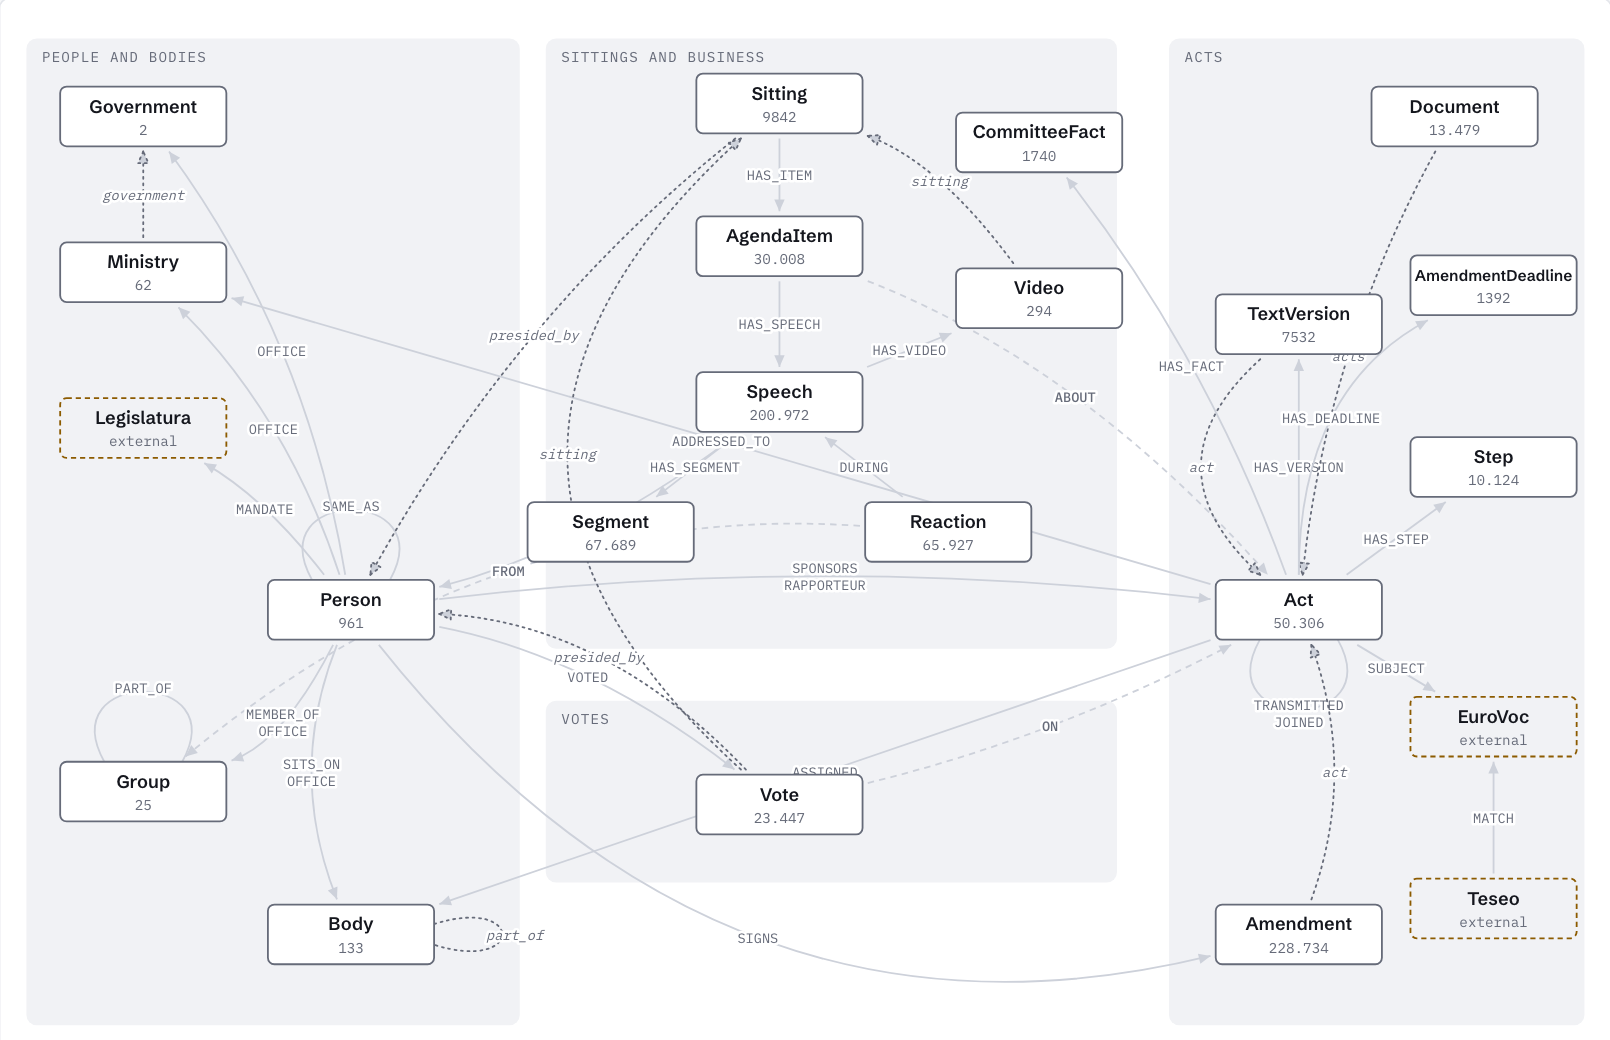
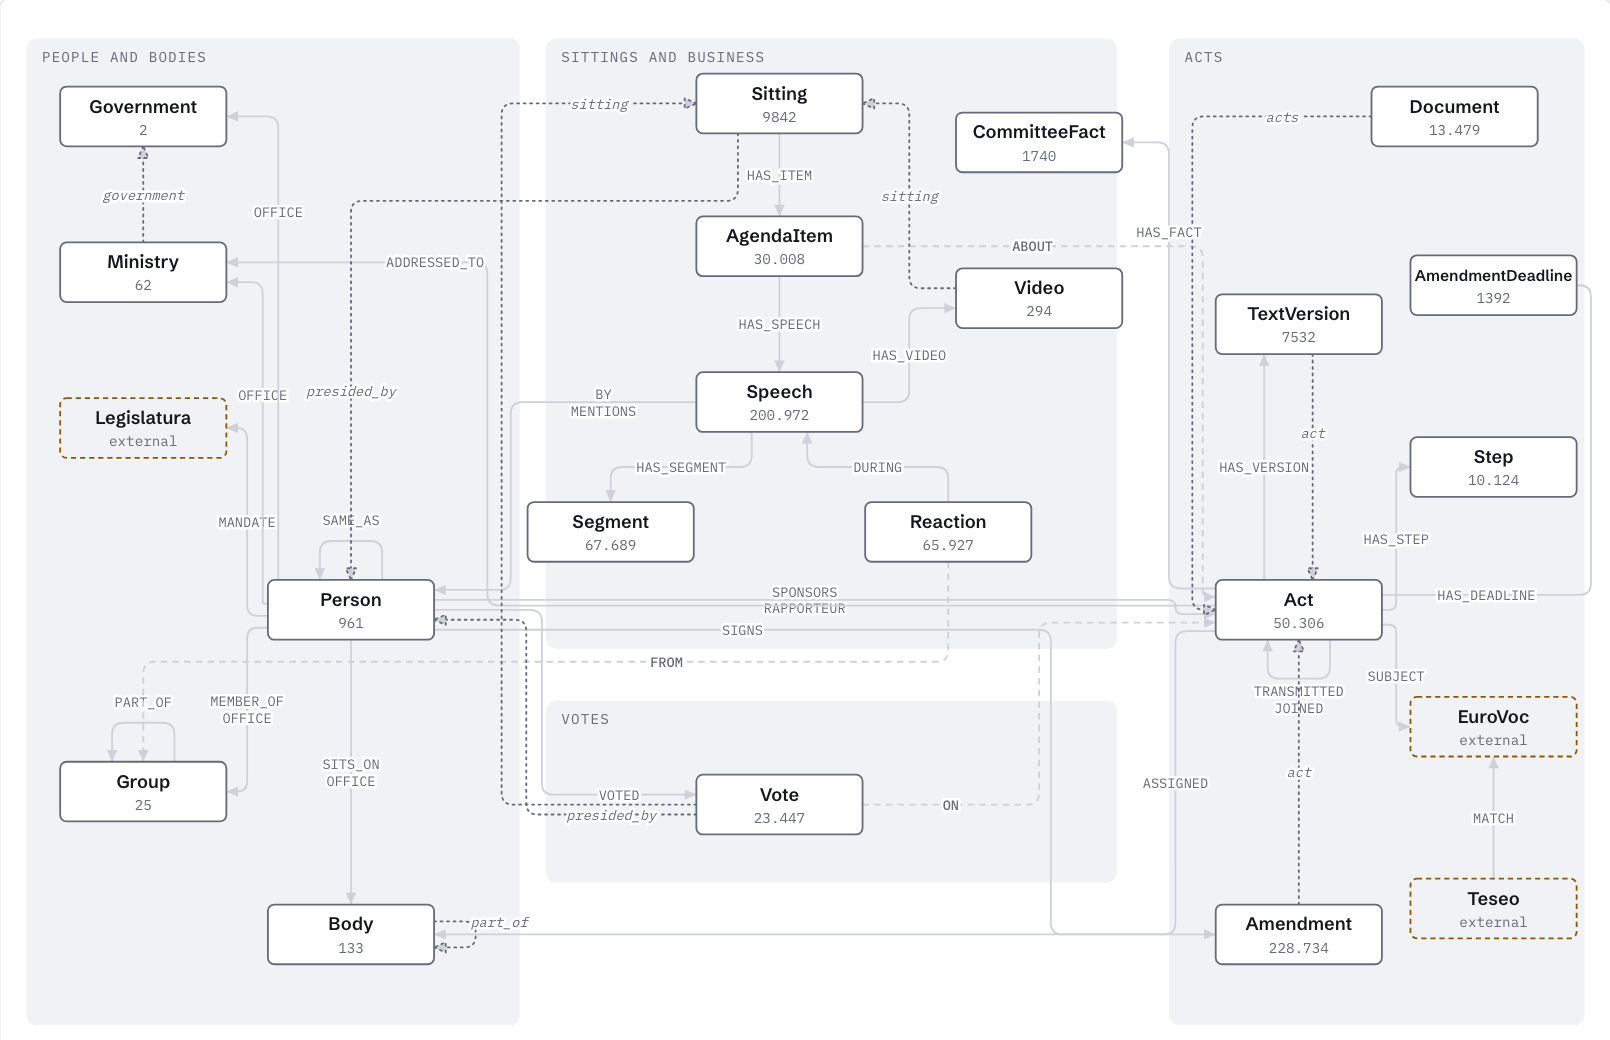
feat(grafo): linee ortogonali nella mappa del modello dei dati
Al posto delle curve con la curvatura scelta a mano: solo tratti
orizzontali e verticali con gli angoli arrotondati. Le linee di uno
stesso lato si distribuiscono lungo il bordo, le porte quasi allineate
si allineano (niente scalini), il tratto di mezzo si sceglie fra molte
posizioni evitando i riquadri e le linee già tracciate, con un percorso
a C quando due nodi stanno nella stessa colonna. Le etichette vanno dove
non coprono riquadri, titoli delle zone o altre etichette. PNG rifatti.

diff --git a/sito/js/grafo-v3.js b/sito/js/grafo-v3.js
@@ -71,10 +71,6 @@ const POS = {
 };
 const ZONE = [["Persone e organi", 20, 30, 380, 760], ["Sedute e lavori", 420, 30, 440, 470], ["Voti", 420, 540, 440, 140], ["Atti", 900, 30, 320, 760]];
 const W = 128, H = 46;
-// curvatura per coppia (positiva = verso destra rispetto alla direzione)
-const CURVA = { "Person>Amendment": 0.32, "Person>Act": -0.06, "Person>Vote": -0.12, "Vote>Act": 0.06, "Person>Group": -0.2, "Person>Body": 0.2,
-  "Vote>Sitting": -0.55, "Video>Sitting": 0.15, "Amendment>Act": 0.18, "TextVersion>Act": 0.55, "Document>Act": 0.1, "Sitting>Person": 0.1,
-  "Vote>Person": 0.2, "Speech>Person": -0.1, "Ministry>Government": 0, "Person>Ministry": 0.12, "Person>Government": 0.12, "Person>Legislatura": 0.1, "Speech>Person": -0.1, "TextVersion>Amendment": 0, "AgendaItem>Act": -0.12, "Reaction>Group": 0.2, "Act>AmendmentDeadline": -0.3, "Act>CommitteeFact": 0.08, "AmendmentDeadline>Sitting": -0.08 };
 
 const fmt = n => n.toLocaleString("it-IT");
 const svg = document.getElementById("g3-svg");
@@ -100,40 +96,154 @@ const ZONE_EN = { "Persone e organi": "People and bodies", "Sedute e lavori": "S
 if (window.LANG === "en") ZONE.forEach((z) => { z[0] = ZONE_EN[z[0]] || z[0]; });
 ZONE.forEach(([t, x, y, w, h]) => { el("rect", { x, y, width: w, height: h, rx: 8, class: "zona-fondo" }); el("text", { x: x + 12, y: y + 18, class: "zona" }).textContent = t; });
 
-// bordo del rettangolo verso un punto
-function bordo([cx, cy], [tx, ty]) {
-  const dx = tx - cx, dy = ty - cy, sx = (W / 2 + 4) / Math.abs(dx || 1e-9), sy = (H / 2 + 4) / Math.abs(dy || 1e-9), s = Math.min(sx, sy);
-  return [cx + dx * s, cy + dy * s];
+// linee ortogonali (10/11/2026): solo tratti orizzontali e verticali, con gli angoli arrotondati. Ogni coppia esce dal lato
+// rivolto verso l'arrivo; le linee di uno stesso lato si distribuiscono lungo il bordo. Per il tratto di mezzo si provano
+// molte posizioni e vince quella che non attraversa riquadri e non si sovrappone alle linee già tracciate; le etichette
+// vanno dove non toccano riquadri né altre etichette.
+const MARGINE = 8;
+const riquadri = Object.entries(POS).map(([l, [x, y]]) => ({ l, x0: x - W / 2 - MARGINE, y0: y - H / 2 - MARGINE, x1: x + W / 2 + MARGINE, y1: y + H / 2 + MARGINE }))
+  .concat(ZONE.map(([t, x, y]) => ({ l: "zona " + t, x0: x + 2, y0: y + 2, x1: x + 22 + t.length * 8, y1: y + 28 })));   // i titoli delle zone
+const tratti = [];                                     // {o: "h" | "v", c: coordinata fissa, a, b: intervallo, k: coppia}
+function attraversa(p, q, salta) {
+  const x0 = Math.min(p[0], q[0]), x1 = Math.max(p[0], q[0]), y0 = Math.min(p[1], q[1]), y1 = Math.max(p[1], q[1]);
+  return riquadri.filter(r => !salta.includes(r.l) && x0 < r.x1 && x1 > r.x0 && y0 < r.y1 && y1 > r.y0).length;
+}
+function tratto(p, q, k) {
+  const o = Math.abs(p[1] - q[1]) < .5 ? "h" : "v", i = o === "h" ? 0 : 1;
+  return { o, c: o === "h" ? p[1] : p[0], a: Math.min(p[i], q[i]), b: Math.max(p[i], q[i]), k };
+}
+function sovrapposti(t) {                              // lunghezza in comune con tratti paralleli già tracciati, a meno di 7 px
+  return tratti.filter(u => u.o === t.o && u.k !== t.k && Math.abs(u.c - t.c) < 7).reduce((s, u) => s + Math.max(0, Math.min(t.b, u.b) - Math.max(t.a, u.a)), 0);
+}
+function costo(pts, salta, k) {
+  let c = 0;
+  for (let i = 0; i < pts.length - 1; i++) {
+    if (Math.hypot(pts[i + 1][0] - pts[i][0], pts[i + 1][1] - pts[i][1]) < .5) continue;
+    c += attraversa(pts[i], pts[i + 1], salta) * 10000 + sovrapposti(tratto(pts[i], pts[i + 1], k)) * 2;   // un riquadro attraversato pesa più di qualsiasi sovrapposizione
+  }
+  return c + (pts.length - 2) * 15;
+}
+function arrotonda(pts, r = 9) {
+  let d = `M ${pts[0][0]} ${pts[0][1]}`;
+  for (let i = 1; i < pts.length - 1; i++) {
+    const [px, py] = pts[i - 1], [x, y] = pts[i], [nx, ny] = pts[i + 1], l1 = Math.hypot(x - px, y - py), l2 = Math.hypot(nx - x, ny - y);
+    if (l1 < .5 || l2 < .5) continue;
+    const q = Math.min(r, l1 / 2, l2 / 2);
+    d += ` L ${x - (x - px) / l1 * q} ${y - (y - py) / l1 * q} Q ${x} ${y} ${x + (nx - x) / l2 * q} ${y + (ny - y) / l2 * q}`;
+  }
+  return d + ` L ${pts[pts.length - 1][0]} ${pts[pts.length - 1][1]}`;
 }
 const gArchi = el("g"), gNodi = el("g");
 const archiEl = [];
+const linee = [];                                      // {k, a, b, rs, pts, giro}
+// 1. gli anelli, accanto al nodo
 Object.entries(coppie).forEach(([k, rs]) => {
-  const [a, b] = k.replace("#p", "").split(">"); const g = el("g", { class: "arco" + (rs.every(r => r.rif) ? " rif" : "") + (rs.every(r => r.perProp) ? " prop" : "") }, gArchi);
-  let d, lx, ly, ang;
-  if (a === b) { // anello
-    const [x, y] = POS[a]; const s = a === "Act" ? 1 : -1;
-    if (a === "Body") { d = `M ${x + W / 2} ${y - 8} C ${x + W / 2 + 70} ${y - 30}, ${x + W / 2 + 70} ${y + 30}, ${x + W / 2} ${y + 8}`; el("path", { d }, g); lx = x + W / 2 + 62; ly = y; }
-    else {
-    d = `M ${x + 30} ${y + s * H / 2} C ${x + 70} ${y + s * 95}, ${x - 70} ${y + s * 95}, ${x - 30} ${y + s * H / 2}`;
-    lx = x; ly = y + s * 80; ang = null;
-    el("path", { d }, g); }
-  } else {
-    const p0 = POS[a], p1 = POS[b], c = CURVA[k] ?? CURVA[k.replace("#p", "")] ?? 0;
-    const mx = (p0[0] + p1[0]) / 2, my = (p0[1] + p1[1]) / 2, dx = p1[0] - p0[0], dy = p1[1] - p0[1];
-    const cx = mx - dy * c, cy = my + dx * c;
-    const s = bordo(p0, [cx, cy]), e = bordo(p1, [cx, cy]);
-    d = `M ${s[0]} ${s[1]} Q ${cx} ${cy} ${e[0]} ${e[1]}`;
-    el("path", { d }, g);
-    lx = 0.25 * s[0] + 0.5 * cx + 0.25 * e[0]; ly = 0.25 * s[1] + 0.5 * cy + 0.25 * e[1];
-    const ax = e[0] - cx, ay = e[1] - cy, L = Math.hypot(ax, ay) || 1, ux = ax / L, uy = ay / L;
-    el("path", { class: "freccia", d: `M ${e[0]} ${e[1]} L ${e[0] - 9 * ux + 4 * uy} ${e[1] - 9 * uy - 4 * ux} L ${e[0] - 9 * ux - 4 * uy} ${e[1] - 9 * uy + 4 * ux} Z` }, g);
+  const [a, b] = k.replace("#p", "").split(">"); if (a !== b) return;
+  const [x, y] = POS[a];
+  const pts = a === "Body" ? [[x + W / 2, y - 10], [x + W / 2 + 32, y - 10], [x + W / 2 + 32, y + 10], [x + W / 2, y + 10]]
+    : (s => [[x + 24, y + s * H / 2], [x + 24, y + s * (H / 2 + 30)], [x - 24, y + s * (H / 2 + 30)], [x - 24, y + s * H / 2]])(a === "Act" ? 1 : -1);
+  linee.push({ k, a, b, rs, pts, giro: true });
+  for (let i = 0; i < pts.length - 1; i++) tratti.push(tratto(pts[i], pts[i + 1], k));
+});
+// 2. per le altre coppie, il lato: in orizzontale fra colonne diverse, in verticale nella stessa colonna, o quello che attraversa meno riquadri
+const lati = {};
+Object.entries(coppie).forEach(([k, rs]) => {
+  const [a, b] = k.replace("#p", "").split(">"); if (a === b) return;
+  const [ax, ay] = POS[a], [bx, by] = POS[b], dx = bx - ax, dy = by - ay;
+  const prova = (oriz) => {
+    const s = oriz ? [ax + Math.sign(dx) * W / 2, ay] : [ax, ay + Math.sign(dy) * H / 2], e = oriz ? [bx - Math.sign(dx) * W / 2, by] : [bx, by - Math.sign(dy) * H / 2];
+    const m = oriz ? (s[0] + e[0]) / 2 : (s[1] + e[1]) / 2;
+    return attraversa(s, oriz ? [m, s[1]] : [s[0], m], [a, b]) + attraversa(oriz ? [m, s[1]] : [s[0], m], oriz ? [m, e[1]] : [e[0], m], [a, b]) + attraversa(oriz ? [m, e[1]] : [e[0], m], e, [a, b]);
+  };
+  const puoO = Math.abs(dx) > W + 16, puoV = Math.abs(dy) > H + 16;
+  const oriz = puoO && (!puoV || prova(true) <= prova(false) && (prova(true) < prova(false) || Math.abs(dx) >= Math.abs(dy)));
+  const l = { k, a, b, rs, oriz, sa: oriz ? (dx > 0 ? "E" : "W") : (dy > 0 ? "S" : "N"), sb: oriz ? (dx > 0 ? "W" : "E") : (dy > 0 ? "N" : "S") };
+  linee.push(l);
+  (lati[a + l.sa] = lati[a + l.sa] || []).push({ l, capo: "s", altro: POS[b] });
+  (lati[b + l.sb] = lati[b + l.sb] || []).push({ l, capo: "e", altro: POS[a] });
+});
+// 3. le porte: lungo il bordo, nell'ordine della posizione dell'altro capo
+Object.entries(lati).forEach(([k, xs]) => {
+  const lato = k.slice(-1), [x, y] = POS[k.slice(0, -1)], vert = lato === "E" || lato === "W", L = vert ? H : W;
+  xs.sort((p, q) => vert ? p.altro[1] - q.altro[1] : p.altro[0] - q.altro[0]);
+  xs.forEach((p, i) => {
+    const o = -L / 2 + (i + 1) / (xs.length + 1) * L;
+    p.l[p.capo] = lato === "E" ? [x + W / 2, y + o] : lato === "W" ? [x - W / 2, y + o] : lato === "S" ? [x + o, y + H / 2] : [x + o, y - H / 2];
+  });
+});
+// 3b. porte quasi allineate: si allineano, così la linea è dritta invece di fare uno scalino di pochi pixel
+const porte = {};
+Object.entries(lati).forEach(([k, xs]) => xs.forEach(p => { (porte[k] = porte[k] || []).push(p.l[p.capo]); }));
+linee.filter(l => !l.giro).forEach(l => {
+  const i = l.oriz ? 1 : 0, d = Math.abs(l.s[i] - l.e[i]);
+  if (d < .5 || d > (l.oriz ? 18 : 30)) return;
+  const [ax, ay] = POS[l.a], [bx, by] = POS[l.b], mezza = l.oriz ? H / 2 - 6 : W / 2 - 10;
+  const lo = Math.max((l.oriz ? ay : ax) - mezza, (l.oriz ? by : bx) - mezza), hi = Math.min((l.oriz ? ay : ax) + mezza, (l.oriz ? by : bx) + mezza);
+  const v = Math.min(hi, Math.max(lo, (l.s[i] + l.e[i]) / 2));
+  if (v < lo || v > hi) return;
+  const libero = (k, pt) => (porte[k] || []).every(q => q === pt || Math.abs(q[i] - v) > 7);
+  if (!libero(l.a + l.sa, l.s) || !libero(l.b + l.sb, l.e)) return;
+  l.s[i] = v; l.e[i] = v;
+});
+// 4. il tratto di mezzo, dalle linee più corte alle più lunghe
+linee.filter(l => !l.giro).sort((p, q) => (Math.abs(p.e[0] - p.s[0]) + Math.abs(p.e[1] - p.s[1])) - (Math.abs(q.e[0] - q.s[0]) + Math.abs(q.e[1] - q.s[1]))).forEach(l => {
+  const [sx, sy] = l.s, [ex, ey] = l.e, salta = [l.a, l.b];
+  const via = (m) => l.oriz ? [l.s, [m, sy], [m, ey], l.e] : [l.s, [sx, m], [ex, m], l.e];
+  let meglio = null;
+  if (l.oriz ? Math.abs(sy - ey) < .5 : Math.abs(sx - ex) < .5) meglio = { pts: [l.s, l.e], c: costo([l.s, l.e], salta, l.k) };
+  const centro = l.oriz ? (sx + ex) / 2 : (sy + ey) / 2;
+  for (let n = 0; n < 90; n++) {
+    const m = centro + (n % 2 ? 1 : -1) * Math.ceil(n / 2) * 6, pts = via(m), c = costo(pts, salta, l.k) + Math.abs(m - centro) * .04;
+    if (!meglio || c < meglio.c) meglio = { pts, c };
   }
+  // se attraversa ancora un riquadro (due nodi nella stessa colonna o nella stessa riga), un percorso a C: esce di lato,
+  // corre nel corridoio accanto e rientra dallo stesso lato
+  if (meglio.c >= 10000) {
+    const [ax, ay] = POS[l.a], [bx, by] = POS[l.b];
+    for (const lato of l.oriz ? ["N", "S"] : ["E", "W"]) {
+      const v = lato === "E" || lato === "W", sg = lato === "E" || lato === "S" ? 1 : -1;
+      const s = v ? [ax + sg * W / 2, ay] : [ax, ay + sg * H / 2], e = v ? [bx + sg * W / 2, by] : [bx, by + sg * H / 2];
+      const fuori = v ? sg * Math.max(sg * s[0], sg * e[0]) : sg * Math.max(sg * s[1], sg * e[1]);
+      for (let n = 0; n < 40; n++) {
+        const m = fuori + sg * (18 + n * 6), pts = v ? [s, [m, s[1]], [m, e[1]], e] : [s, [s[0], m], [e[0], m], e], c = costo(pts, [l.a, l.b], l.k) + n * .5 + 25;
+        if (c < meglio.c) meglio = { pts, c };
+      }
+    }
+  }
+  l.pts = meglio.pts;
+  for (let i = 0; i < l.pts.length - 1; i++) tratti.push(tratto(l.pts[i], l.pts[i + 1], l.k));
+});
+// 5. il disegno, poi le etichette dove non coprono riquadri né altre etichette
+const etichette = [];
+const tocca = (r, s) => r.x0 < s.x1 && r.x1 > s.x0 && r.y0 < s.y1 && r.y1 > s.y0;
+linee.forEach(l => {
+  const rs = l.rs, g = el("g", { class: "arco" + (rs.every(r => r.rif) ? " rif" : "") + (rs.every(r => r.perProp) ? " prop" : "") }, gArchi);
+  el("path", { d: arrotonda(l.pts) }, g);
+  const e = l.pts[l.pts.length - 1], p = l.pts[l.pts.length - 2], L = Math.hypot(e[0] - p[0], e[1] - p[1]) || 1, ux = (e[0] - p[0]) / L, uy = (e[1] - p[1]) / L;
+  el("path", { class: "freccia", d: `M ${e[0]} ${e[1]} L ${e[0] - 9 * ux + 4 * uy} ${e[1] - 9 * uy - 4 * ux} L ${e[0] - 9 * ux - 4 * uy} ${e[1] - 9 * uy + 4 * ux} Z` }, g);
+  const w = Math.max(...rs.map(r => r.type.length)) * 6.6 + 8, h = rs.length * 13 + 2;
+  let meglio = null;
+  for (let i = 0; i < l.pts.length - 1; i++) {
+    const [ax, ay] = l.pts[i], [bx, by] = l.pts[i + 1], lung = Math.hypot(bx - ax, by - ay);
+    if (lung < 24 && !l.giro) continue;
+    for (const t of [.5, .35, .65, .2, .8]) {
+      const x = ax + (bx - ax) * t + (l.giro && l.a === "Body" ? 34 : 0), y = ay + (by - ay) * t + (l.giro && l.a !== "Body" ? (l.a === "Act" ? 16 : -16) : 0);
+      const r = { x0: x - w / 2, x1: x + w / 2, y0: y - h / 2, y1: y + h / 2 };
+      const c = riquadri.filter(q => tocca(r, q.l.startsWith("zona ") ? q : { x0: q.x0 + MARGINE, x1: q.x1 - MARGINE, y0: q.y0 + MARGINE, y1: q.y1 - MARGINE })).length * 1000
+        + etichette.filter(q => tocca(r, q)).length * 1000
+        + tratti.filter(u => u.k !== l.k && (u.o === "h" ? u.c > r.y0 && u.c < r.y1 && u.b > r.x0 && u.a < r.x1 : u.c > r.x0 && u.c < r.x1 && u.b > r.y0 && u.a < r.y1)).length * 30
+        + Math.abs(t - .5) * 20 - Math.min(lung, 200) * .05;
+      if (!meglio || c < meglio.c) meglio = { c, x, y, r };
+    }
+  }
+  if (!meglio) { const [ax, ay] = l.pts[0], [bx, by] = l.pts[l.pts.length - 1]; meglio = { x: (ax + bx) / 2, y: (ay + by) / 2, r: { x0: 0, x1: 0, y0: 0, y1: 0 } }; }
+  etichette.push(meglio.r);
   rs.forEach((r, i) => {
-    const t = el("text", { x: lx, y: ly + (i - (rs.length - 1) / 2) * 13 + 4, "text-anchor": "middle", tabindex: 0, role: "button" }, g);
+    const t = el("text", { x: meglio.x, y: meglio.y + (i - (rs.length - 1) / 2) * 13 + 4, "text-anchor": "middle", tabindex: 0, role: "button" }, g);
     t.textContent = r.type; t.addEventListener("click", ev => { ev.stopPropagation(); scegliRel(r.id); });
     t.addEventListener("keydown", ev => { if (ev.key === "Enter" || ev.key === " ") { ev.preventDefault(); scegliRel(r.id); } });
   });
-  archiEl.push({ g, a, b, ids: rs.map(r => r.id) });
+  archiEl.push({ g, a: l.a, b: l.b, ids: rs.map(r => r.id) });
 });
 const nodiEl = {};
 tuttiNodi.forEach(l => {
